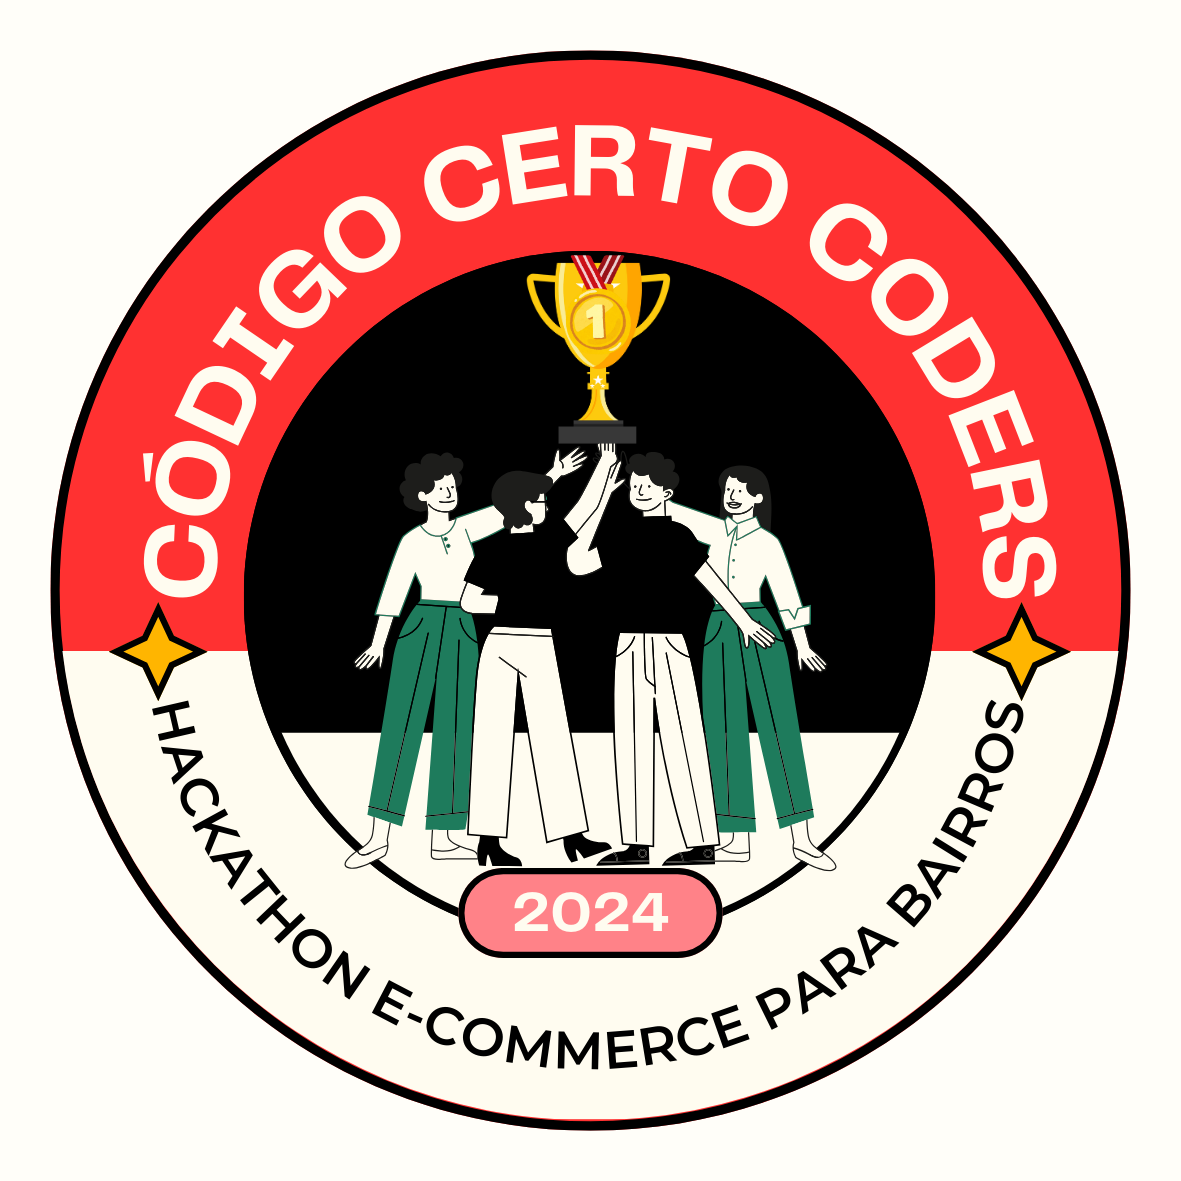
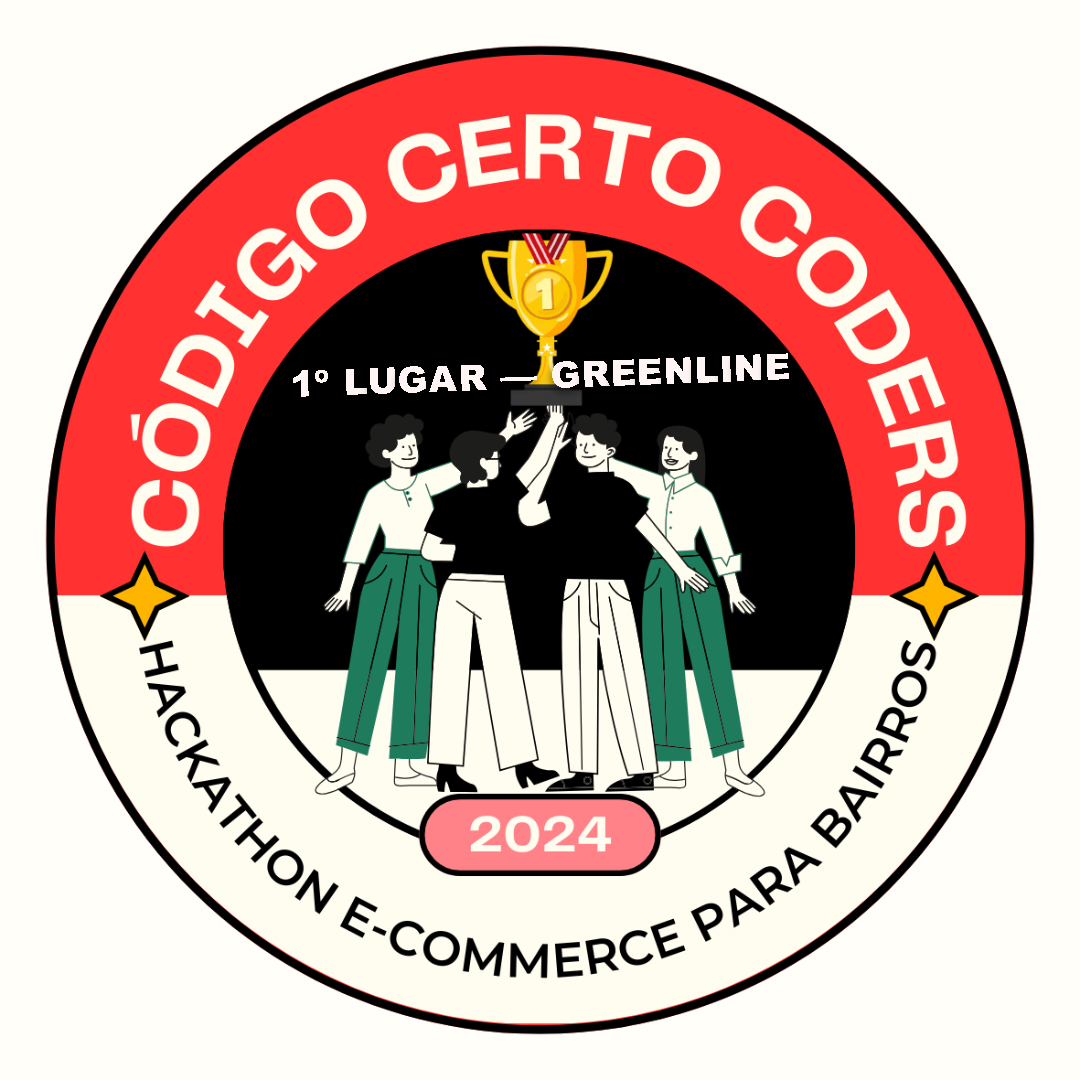
feat: badges hackathon 2024.

Changed region(s): [[0.4889, 0.3056, 0.7333, 0.3667], [0.275, 0.3361, 0.4583, 0.3667]]

diff --git a/badges/hackathon/README.md b/badges/hackathon/README.md
@@ -1,0 +1,89 @@
+# 🏆 **Badges de Premiação – Hackathon**
+
+Aplicação oficial dos badges concedidos às equipes vencedoras do hackathon, classificados do **1º ao 3º lugar**.
+
+---
+
+## 🥇 **1º Lugar — Greenline (Equipe 17)**
+
+### 🌿 *Solução vencedora com alta inovação e execução impecável*
+
+| Badge | Integrante               | GitHub                                                               |
+| ----- | ------------------------ | -------------------------------------------------------------------- |
+| 🏅    | **Gustavo Ronan**        | [@gustavoronan](https://github.com/gustavoronan)                     |
+| 🏅    | **Lucas Schneider**      | [@lucasSchneider1999](https://github.com/lucasSchneider1999)         |
+| 🏅    | **Eduardo Pereira Lima** | [@EduardoPereiraLima-Dev](https://github.com/EduardoPereiraLima-Dev) |
+
+---
+
+## 🥈 **2º Lugar — HortaTech (Equipe 15)**
+
+### 🌱 *Projeto de grande impacto e execução sólida*
+
+| Badge | Integrante            | GitHub                                                 |
+| ----- | --------------------- | ------------------------------------------------------ |
+| 🥈    | **Pedro Santos**      | [@PedroHaugusto](https://github.com/PedroHaugusto)     |
+| 🥈    | **Willian Gonçalves** | [@wilgoncalves](https://github.com/wilgoncalves)       |
+| 🥈    | **Andre Silva**       | [@Hardsys-Andre](https://github.com/Hardsys-Andre)     |
+| 🥈    | **Vinicius Dyonisio** | [@viniciusdyo](https://github.com/viniciusdyo)         |
+| 🥈    | **Eliza Lima**        | [@elizalap](https://github.com/elizalap)               |
+| 🥈    | **Yuri Nascimento**   | [@yurinasc21](https://github.com/yurinasc21)           |
+| 🥈    | **Viviane Santos**    | [@VivianeSantos35](https://github.com/VivianeSantos35) |
+
+---
+
+## 🥉 **3º Lugar — Guardians of the Code (Equipe 14)**
+
+### 🛡 *Solução confiável, funcional e bem apresentada*
+
+| Badge | Integrante               | GitHub                                                   |
+| ----- | ------------------------ | -------------------------------------------------------- |
+| 🥉    | **Julio Cesar**          | [@devjuliof](https://github.com/devjuliof)               |
+| 🥉    | **Joalisson Pinto Maia** | [@joalisson-p-maia](https://github.com/joalisson-p-maia) |
+| 🥉    | **Dickson Freitas**      | [@dickfreitas](https://github.com/dickfreitas)           |
+
+---
+
+## Seu Badge de Reconhecimento 🥇
+
+Como forma de reconhecimento pela sua contribuição e participação, você foi premiado com o badge especial **"Hackaton E-commerce para Bairro"**! Esse badge foi concedido em homenagem à sua dedicação e ao excelente trabalho realizado. Continue nessa jornada de inovação e aprendizado!
+
+---
+
+## Como Baixar e Compartilhar Seu Badge 🖼
+
+### Passos para fazer o download
+
+1. Clique no link abaixo para visualizar e baixar o seu badge:
+   - [Download Badge 1º- Hackaton E-commerce para Bairro](1-lugar-badge.png.png)
+   - [Download Badge 2º- Hackaton E-commerce para Bairro](2-lugar-badge.png.png)
+   - [Download Badge 3º- Hackaton E-commerce para Bairro](3-lugar-badge.png.png)
+
+2. Após o download, você pode usar o badge em:
+   - Seu **perfil do GitHub**: Adicione o badge ao README do seu perfil ou repositório.
+   - Seu **LinkedIn**: Compartilhe o badge em suas postagens ou no seu perfil, exibindo a conquista para seus contatos profissionais.
+   - Outras redes sociais: Mostre o reconhecimento da sua conquista para a comunidade e inspire outros a seguirem o mesmo caminho!
+
+### Passo para adicionar ao README do GitHub
+
+1. No repositório onde você quer adicionar o badge, edite o arquivo `README.md`.
+2. Inclua o seguinte código markdown para exibir o badge no seu repositório:
+   ![Badge de 1º-Hackaton E-commerce para Bairro](1-lugar-badge.png)
+   ![Badge de 2º-Hackaton E-commerce para Bairro](2-lugar-badge.png)
+   ![Badge de 3º-Hackaton E-commerce para Bairro](3-lugar-badge.png)
+3. Salve o arquivo e visualize o seu README com o badge!
+
+---
+
+## Próximos Passos 🚀
+
+Seu potencial é incrível e nós da **Código Certo Coders** estamos ansiosos para ver as próximas soluções inovadoras que você criará! Continue explorando, aprendendo e compartilhando suas ideias com a comunidade. Lembre-se de que cada contribuição faz a diferença e inspira outros a seguirem pelo mesmo caminho de crescimento e evolução.
+
+Se precisar de apoio ou quiser colaborar em novos projetos, estamos aqui para ajudar! Sinta-se à vontade para entrar em contato com outros membros e compartilhar seus próximos passos.
+
+---
+
+**Mais uma vez, parabéns a todos!**  
+Continuem a trilhar o caminho do sucesso e inovação. Estamos todos juntos nessa jornada!
+
+---
